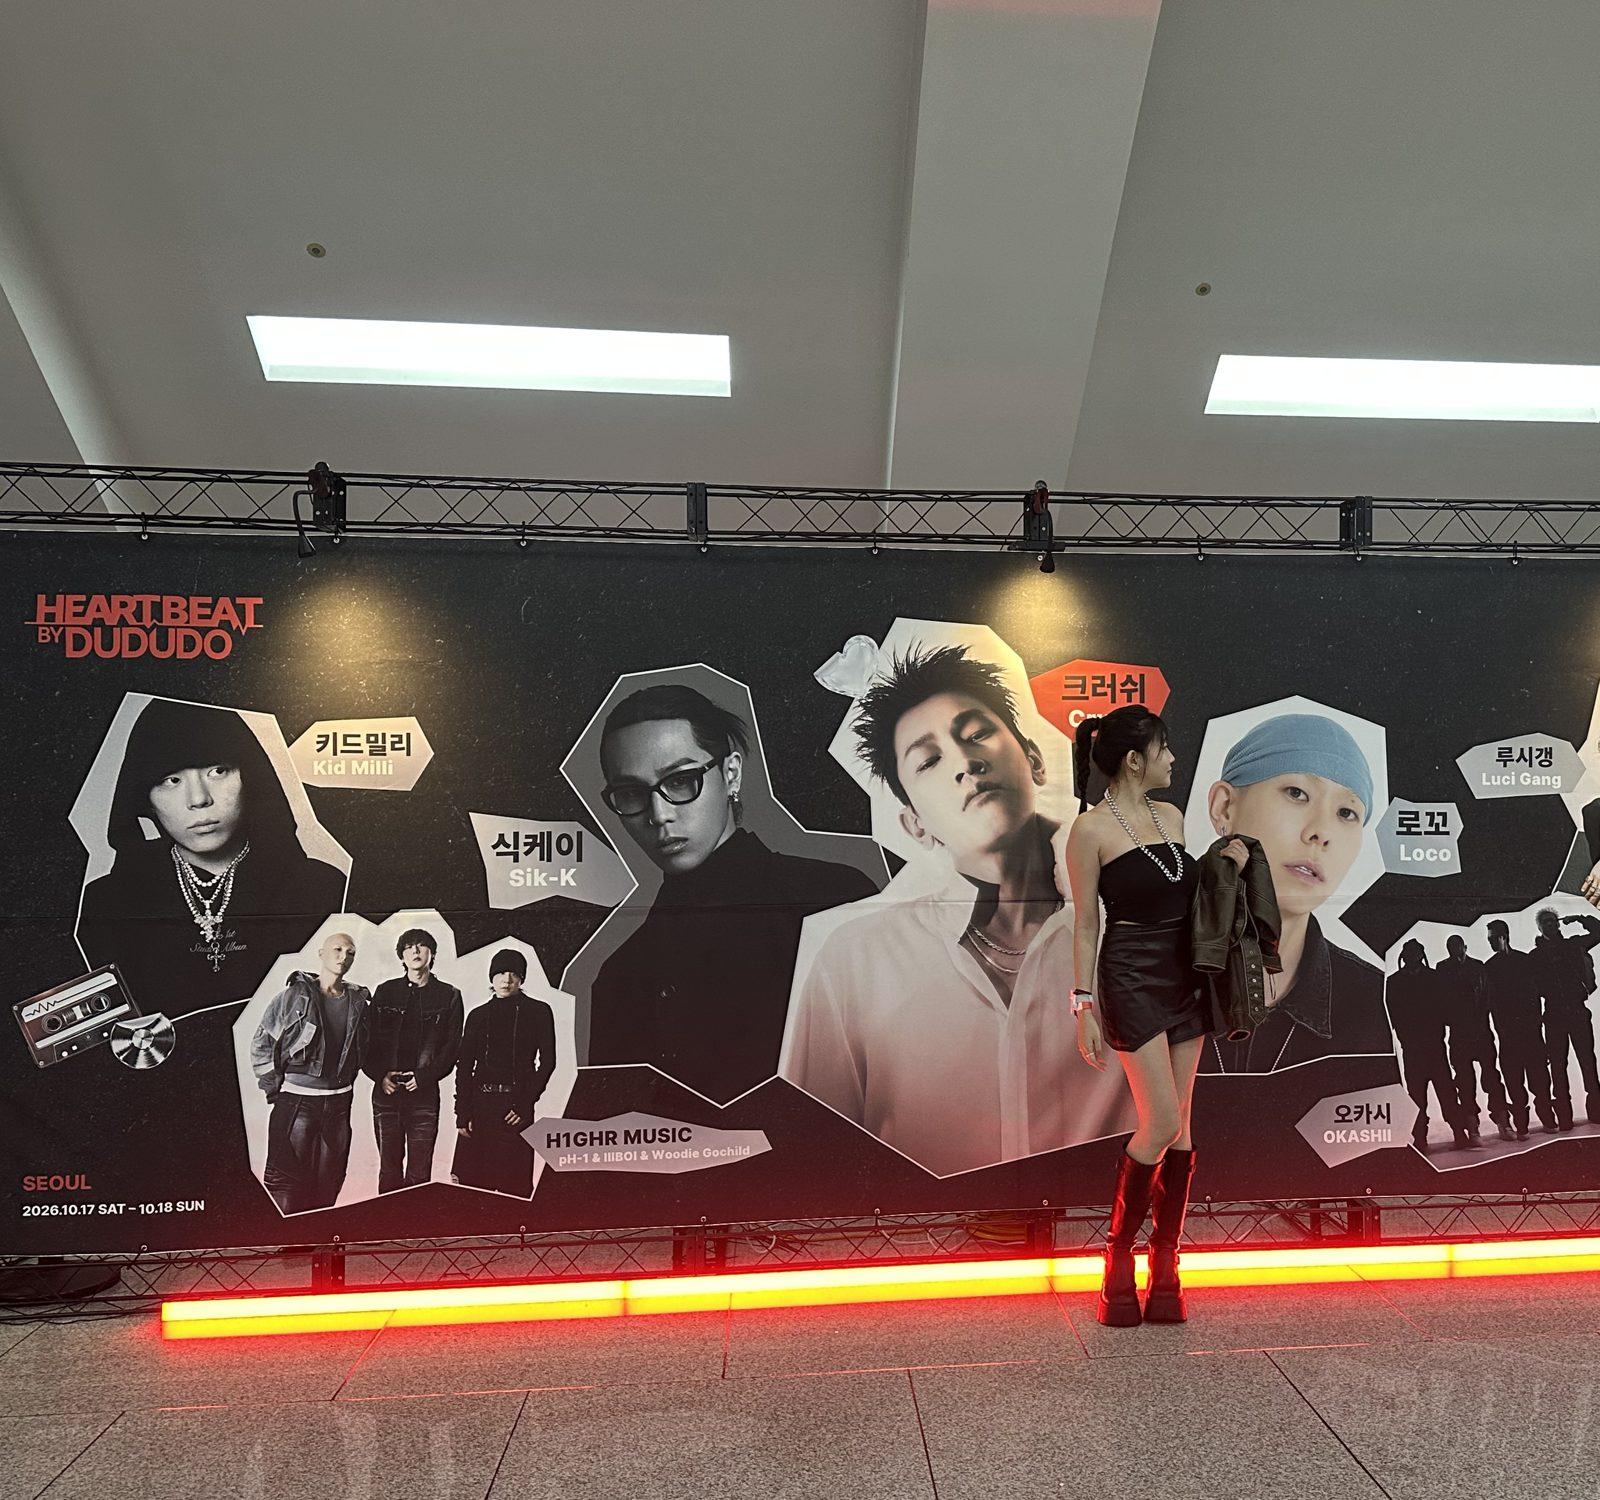
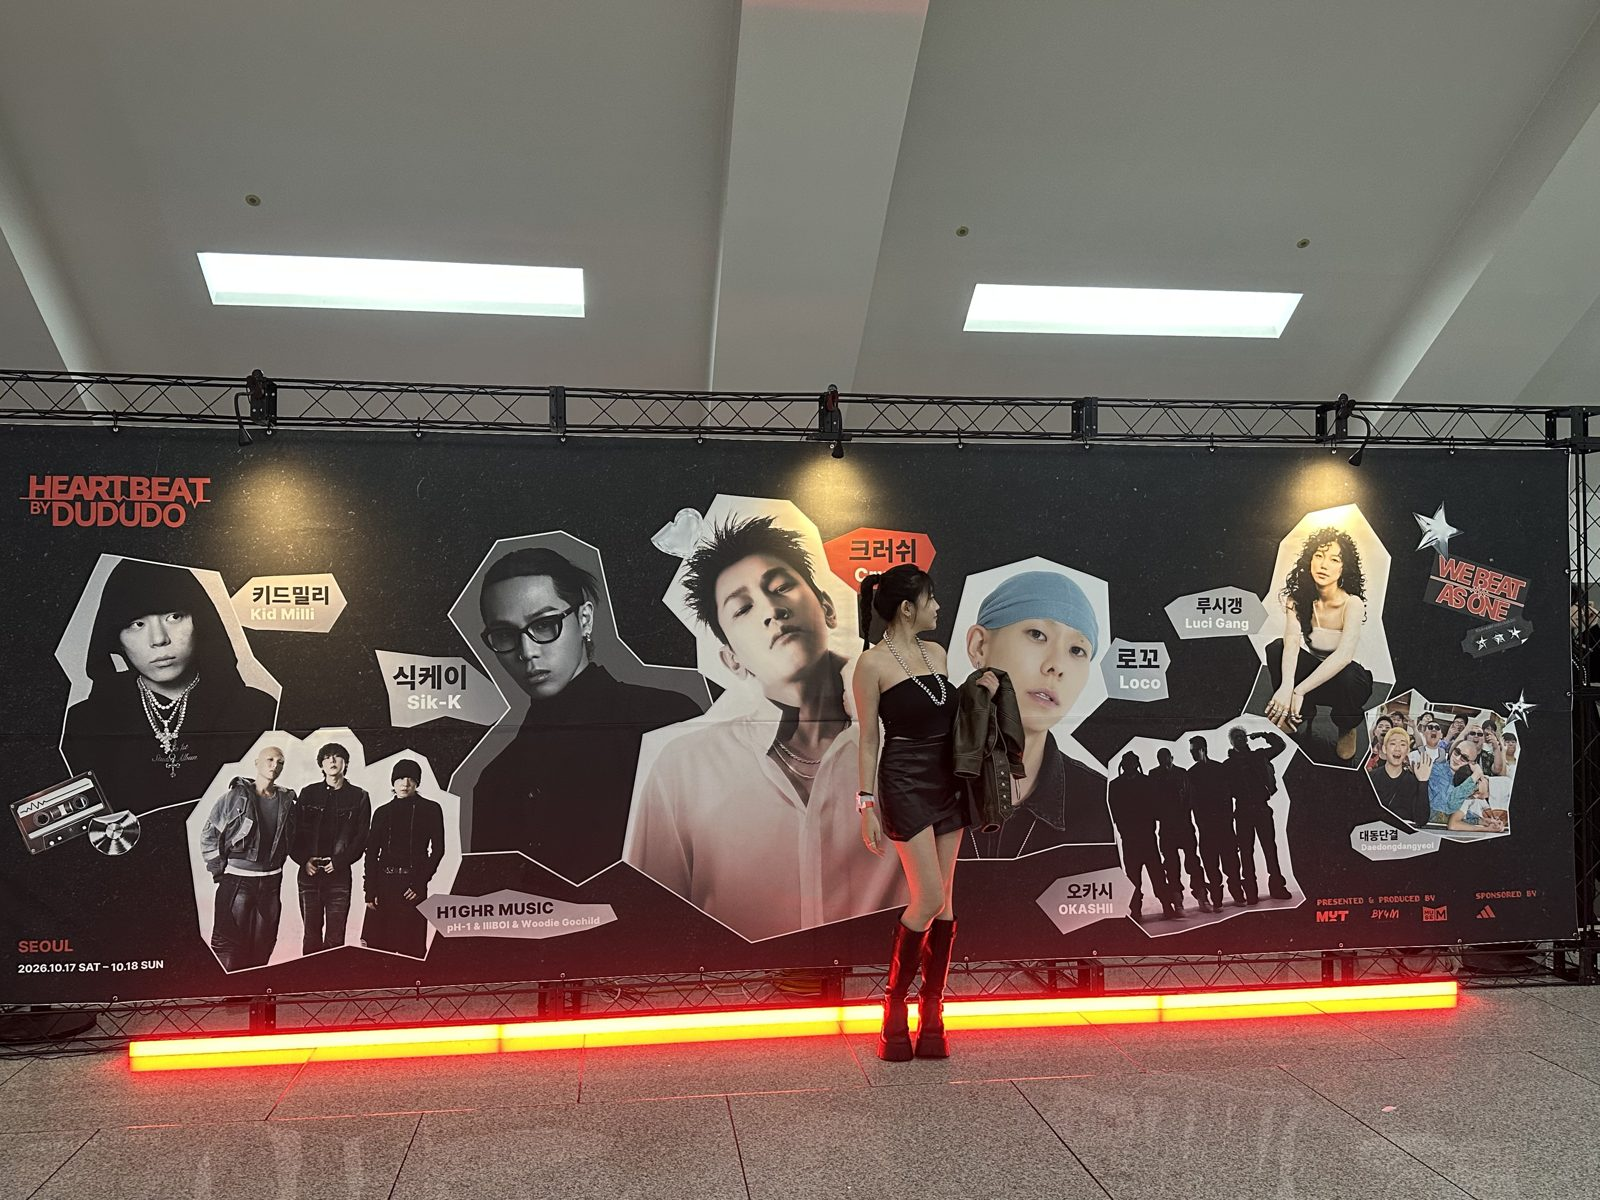
HEARTBEAT PART 06: add holo booth, lineup wall, main stage shots (faces OK per author); drop three near-duplicates
Claude-Session: https://claude.ai/code/session_013oSDXvmgYoZt2EAcoYnXYj

diff --git a/index.html b/index.html
@@ -4812,18 +4812,19 @@
       '</div>' +
       '<div class="hbr-grid hbph-grid">' +
         '<figure class="hbr-item hbr-wide"><img src="' + HB + 'hb-ph-gate-night.jpg" alt="밤의 화정체육관 입구 게이트와 풍선 장식" loading="lazy" decoding="async"><figcaption><b>ENTRANCE</b>붉은 조명이 켜진 입구 게이트</figcaption></figure>' +
-        '<figure class="hbr-item"><img src="' + HB + 'hb-ph-approach.jpg" alt="공연장 가는 길 안내 사인과 입구 계단" loading="lazy" decoding="async"><figcaption><b>WAY IN</b>공연장 가는 길</figcaption></figure>' +
-        '<figure class="hbr-item"><img src="' + HB + 'hb-ph-wall.jpg" alt="아티스트 라인업 포토월" loading="lazy" decoding="async"><figcaption><b>PHOTO WALL</b>라인업 포토월</figcaption></figure>' +
-        '<figure class="hbr-item"><img src="' + HB + 'hb-ph-holo.jpg" alt="홀로그램 포토 부스" loading="lazy" decoding="async"><figcaption><b>HOLOGRAM BOOTH</b>홀로그램 부스</figcaption></figure>' +
+        '<figure class="hbr-item"><img src="' + HB + 'hb-ph-holo-person.jpg" alt="홀로그램 부스 화면" loading="lazy" decoding="async"><figcaption><b>HOLOGRAM BOOTH</b>홀로그램 부스</figcaption></figure>' +
+        '<figure class="hbr-item"><img src="' + HB + 'hb-ph-holo.jpg" alt="홀로그램 포토 부스" loading="lazy" decoding="async"><figcaption><b>HOLOGRAM BOOTH</b>대기 화면</figcaption></figure>' +
+        '<figure class="hbr-item hbr-wide"><img src="' + HB + 'hb-ph-wall.jpg" alt="아티스트 컷아웃 라인업 포토월" loading="lazy" decoding="async"><figcaption><b>LINEUP WALL</b>아티스트 컷아웃 포토월</figcaption></figure>' +
+        '<figure class="hbr-item hbr-wide"><img src="' + HB + 'hb-ph-lineup.jpg" alt="키 비주얼과 라인업을 담은 포토월과 입체 로고" loading="lazy" decoding="async"><figcaption><b>KEY VISUAL WALL</b>키 비주얼 라인업 월과 입체 로고</figcaption></figure>' +
+        '<figure class="hbr-item hbr-wide"><img src="' + HB + 'hb-ph-holo-use.jpg" alt="홀로그램 포토 부스에서 촬영하는 관객" loading="lazy" decoding="async"><figcaption><b>HOLOGRAM IN USE</b>촬영 중인 홀로그램 포토 부스</figcaption></figure>' +
         '<figure class="hbr-item"><video class="hbph-vid" poster="' + HB + 'hb-ph-kiosk-poster.jpg" autoplay muted loop playsinline preload="metadata" aria-label="현장 태블릿 키오스크 터치 시연"><source src="' + HB + 'hb-ph-kiosk.mp4" type="video/mp4"></video><figcaption><b>TOUCH KIOSK</b>현장에서 직접 시연한 태블릿 촬영 키오스크</figcaption></figure>' +
+        '<figure class="hbr-item"><img src="' + HB + 'hb-ph-beads.jpg" alt="비즈 목걸이 이벤트 배너와 나무 상자" loading="lazy" decoding="async"><figcaption><b>BEADS EVENT</b>비즈 목걸이 이벤트 코너</figcaption></figure>' +
         '<figure class="hbr-item hbr-wide"><img src="' + HB + 'hb-ph-md-booth.jpg" alt="공식 MD 부스 전경" loading="lazy" decoding="async"><figcaption><b>OFFICIAL MD</b>공식 MD 부스</figcaption></figure>' +
-        '<figure class="hbr-item"><img src="' + HB + 'hb-ph-md-wall.jpg" alt="레드 테이프로 꾸민 MD 진열 벽" loading="lazy" decoding="async"><figcaption><b>MD DISPLAY</b>레드 테이프 진열 벽</figcaption></figure>' +
-        '<figure class="hbr-item"><img src="' + HB + 'hb-ph-md-inside.jpg" alt="MD 부스 내부와 계산대" loading="lazy" decoding="async"><figcaption><b>MD BOOTH</b>부스 내부</figcaption></figure>' +
+        '<figure class="hbr-item hbr-wide"><img src="' + HB + 'hb-ph-md-wall.jpg" alt="레드 테이프로 꾸민 MD 진열 벽" loading="lazy" decoding="async"><figcaption><b>MD DISPLAY</b>레드 테이프 진열 벽</figcaption></figure>' +
         '<figure class="hbr-item"><img src="' + HB + 'hb-ph-heart.jpg" alt="직접 제작해 현장에 뿌린 WE BEAT AS ONE 하트 컨페티" loading="lazy" decoding="async"><figcaption><b>WE BEAT AS ONE</b>직접 제작해 뿌린 하트 컨페티</figcaption></figure>' +
         '<figure class="hbr-item"><img src="' + HB + 'hb-ph-band.jpg" alt="붉게 빛나는 하트 팔찌를 찬 손" loading="lazy" decoding="async"><figcaption><b>LIGHT BAND</b>하트 팔찌 라이트</figcaption></figure>' +
+        '<figure class="hbr-item hbr-wide"><img src="' + HB + 'hb-ph-stage.jpg" alt="공연 중 메인 무대와 객석" loading="lazy" decoding="async"><figcaption><b>MAIN STAGE</b>공연 중 메인 무대</figcaption></figure>' +
         '<figure class="hbr-item hbr-wide"><img src="' + HB + 'hb-ph-drums.jpg" alt="로고 시트지를 붙인 취식존 드럼통 테이블" loading="lazy" decoding="async"><figcaption><b>FOOD ZONE</b>시트지를 직접 붙인 취식존 드럼통</figcaption></figure>' +
-        '<figure class="hbr-item"><img src="' + HB + 'hb-ph-beads.jpg" alt="비즈 목걸이 이벤트 배너와 나무 상자" loading="lazy" decoding="async"><figcaption><b>BEADS EVENT</b>비즈 목걸이 이벤트 코너</figcaption></figure>' +
-        '<figure class="hbr-item"><img src="' + HB + 'hb-ph-balloons.jpg" alt="밤의 입구 풍선 장식과 방향 사인" loading="lazy" decoding="async"><figcaption><b>BALLOONS</b>입구 풍선 장식</figcaption></figure>' +
       '</div>' +
     '</div>'
   };
